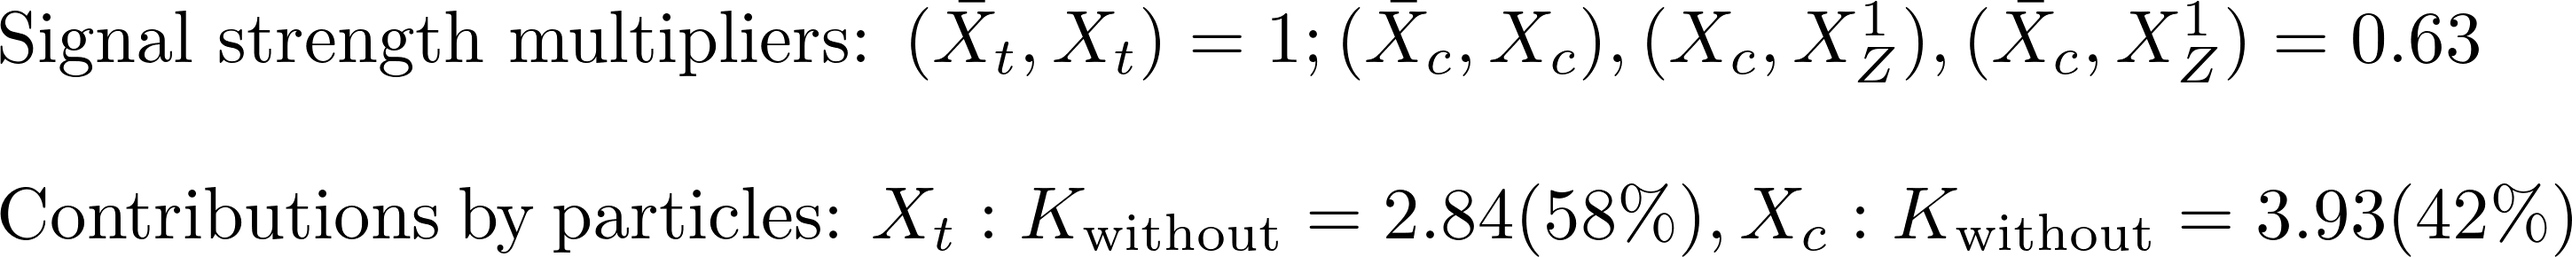
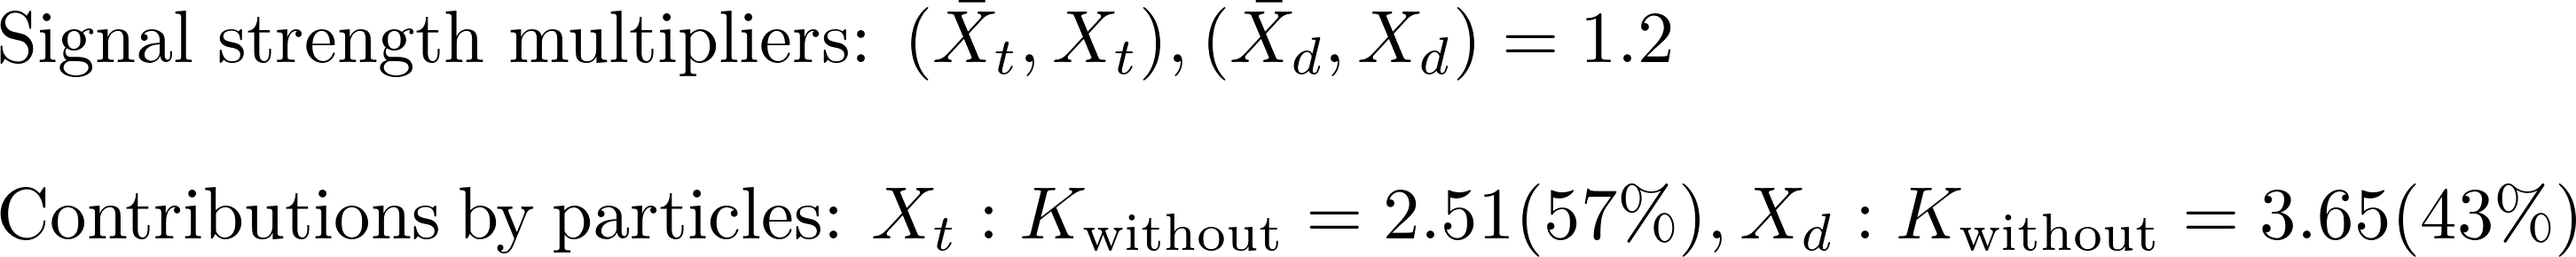
automated update by plotHiscore.py to /scratch-cbe/users/wolfgan.waltenberger/git/smodels.github.io/protomodels/2020_PioneerStudy/real3/

diff --git a/protomodels/2020_PioneerStudy/real3/index.html b/protomodels/2020_PioneerStudy/real3/index.html
@@ -1,30 +1,30 @@
 <html>
 <body>
 <center>
-<table><td><h1>Current best protomodel: K=6.87</h1><td><img height=60px src=https://smodels.github.io/pics/banner.png></table>
+<table><td><h1>Current best protomodel: K=7.02</h1><td><img height=60px src=https://smodels.github.io/pics/banner.png></table>
 </center>
-<b><a href=./hiscore.slha>ProtoModel</a> <a href=./pmodel.py>(dict)</a> produced with <a href=https://smodels.github.io/docs/Validation124>database v1.2.4</a>, combination strategy <a href=./matrix_aggressive.png>aggressive</a> in walker 13 step 926.</b> K plots for: <a href=./M1000022.png?13243411>X<sub>Z</sub><sup>1</sup></a>, <a href=./M1000006.png?13243411>X<sub>t</sub></a>, <a href=./M1000004.png?13243411>X<sub>c</sub></a>. HPD plots for: <a href=./llhd1000006.png?13243411>X<sub>t</sub></a>, <a href=./llhd1000004.png?13243411>X<sub>c</sub></a>. SSM plots for: <a href=./ssm_-1000006_1000006.png?13243411>(x&#772;<sub>t</sub>,X<sub>t</sub>)</a><br>
+<b><a href=./hiscore.slha>ProtoModel</a> <a href=./pmodel.py>(dict)</a> produced with <a href=https://smodels.github.io/docs/Validation124>database v1.2.4</a>, combination strategy <a href=./matrix_aggressive.png>aggressive</a> in walker 28 step 272.</b> K plots for: <a href=./M1000022.png?13647252>X<sub>Z</sub><sup>1</sup></a>, <a href=./M1000006.png?13647252>X<sub>t</sub></a>, <a href=./M1000001.png?13647252>X<sub>d</sub></a>. HPD plots for: <a href=./llhd1000006.png?13647252>X<sub>t</sub></a>, <a href=./llhd1000001.png?13647252>X<sub>d</sub></a>. SSM plots for: <a href=./ssm_-1000006_1000006.png?13647252>(x&#772;<sub>t</sub>,X<sub>t</sub>)</a><br>
 <table width=80%>
 <tr><td>
 <br><b>24 predictions available. Highest r values are:</b><br><ul>
 <li><a href=http://cms-results.web.cern.ch/cms-results/public-results/publications/SUS-19-006/index.html>CMS-SUS-19-006</a>:T2 r=1.30, r<sub>exp</sub>=1.12<br>
-<li><a href=http://cms-results.web.cern.ch/cms-results/public-results/publications/SUS-16-033/index.html>CMS-SUS-16-033</a>:T2 r=1.14, r<sub>exp</sub>=0.84<br>
-<li><a href=http://cms-results.web.cern.ch/cms-results/public-results/publications/SUS-19-006/index.html>CMS-SUS-19-006</a>:T2tt r=0.99, r<sub>exp</sub>=0.98<br>
-<li><a href=http://cms-results.web.cern.ch/cms-results/public-results/publications/SUS-16-036/index.html>CMS-SUS-16-036</a>:T2 r=0.82, r<sub>exp</sub>=0.76<br>
-<li><a href=http://cms-results.web.cern.ch/cms-results/public-results/publications/SUS-16-051/index.html>CMS-SUS-16-051</a>:T2tt r=0.72, r<sub>exp</sub>=0.47<br>
+<li><a href=http://cms-results.web.cern.ch/cms-results/public-results/publications/SUS-16-033/index.html>CMS-SUS-16-033</a>:T2 r=1.12, r<sub>exp</sub>=0.83<br>
+<li><a href=http://cms-results.web.cern.ch/cms-results/public-results/publications/SUS-19-006/index.html>CMS-SUS-19-006</a>:T2tt r=1.03, r<sub>exp</sub>=0.96<br>
+<li><a href=http://cms-results.web.cern.ch/cms-results/public-results/publications/SUS-16-036/index.html>CMS-SUS-16-036</a>:T2 r=0.82, r<sub>exp</sub>=0.77<br>
+<li><a href=http://cms-results.web.cern.ch/cms-results/public-results/publications/SUS-16-051/index.html>CMS-SUS-16-051</a>:T2tt r=0.77, r<sub>exp</sub>=0.51<br>
 </ul>
 <td><br><b>K values without analyses: (contribution)</b><br>
 <ul>
-<li> <a href=http://cms-results.web.cern.ch/cms-results/public-results/publications/SUS-16-050/index.html>CMS-SUS-16-050</a>: 3.68 (14%)
-<li> <a href=https://twiki.cern.ch/twiki/bin/view/CMSPublic/PhysicsResultsSUS13012>CMS-SUS-13-012</a>: 3.68 (14%)
-<li> <a href=https://atlas.web.cern.ch/Atlas/GROUPS/PHYSICS/PAPERS/SUSY-2013-02/>ATLAS-SUSY-2013-02</a>: 3.60 (14%)
-<li> <a href=https://atlas.web.cern.ch/Atlas/GROUPS/PHYSICS/PAPERS/SUSY-2016-16/>ATLAS-SUSY-2016-16</a>: 1.20 (25%)
-<li> <a href=https://atlas.web.cern.ch/Atlas/GROUPS/PHYSICS/PAPERS/SUSY-2016-07/>ATLAS-SUSY-2016-07</a>: -0.79 (33%)
-<td><img width=600px src=./texdoc.png?1606243411>
-<br><font size=-1>Last updated: Tue Nov 24 19:43:31 2020</font>
+<li> <a href=http://cms-results.web.cern.ch/cms-results/public-results/publications/SUS-16-050/index.html>CMS-SUS-16-050</a>: 3.94 (14%)
+<li> <a href=https://twiki.cern.ch/twiki/bin/view/CMSPublic/PhysicsResultsSUS13012>CMS-SUS-13-012</a>: 3.94 (14%)
+<li> <a href=https://atlas.web.cern.ch/Atlas/GROUPS/PHYSICS/PAPERS/SUSY-2013-02/>ATLAS-SUSY-2013-02</a>: 3.88 (14%)
+<li> <a href=https://atlas.web.cern.ch/Atlas/GROUPS/PHYSICS/PAPERS/SUSY-2016-16/>ATLAS-SUSY-2016-16</a>: 1.45 (25%)
+<li> <a href=https://atlas.web.cern.ch/Atlas/GROUPS/PHYSICS/PAPERS/SUSY-2016-07/>ATLAS-SUSY-2016-07</a>: -0.54 (34%)
+<td><img width=600px src=./texdoc.png?1606647252>
+<br><font size=-1>Last updated: Sun Nov 29 11:54:12 2020</font>
 </table><table style="width:80%">
-<td width=45%><img height=580px src=./ruler.png?1606243411><td width=55%><img height=380px src=./decays.png?1606243411>
-<font size=-3><iframe type="text/html" height="220px" width="100%s" frameborder="0" src="./rawnumbers.html?1606243411"></iframe></font>
+<td width=45%><img height=580px src=./ruler.png?1606647252><td width=55%><img height=380px src=./decays.png?1606647252>
+<font size=-3><iframe type="text/html" height="220px" width="100%s" frameborder="0" src="./rawnumbers.html?1606647252"></iframe></font>
 </table>
 </body>
 </html>

diff --git a/protomodels/2020_PioneerStudy/real3/rawnumbers.html b/protomodels/2020_PioneerStudy/real3/rawnumbers.html
@@ -1,9 +1,9 @@
 <table>
 <tr><th>Analysis Name</th><th>Type</th><th>Dataset</th><th>Topos</th><th>Observed</th><th>Expected</th><th>Approx &sigma;</th><th>Particles</th>
 </tr>
-<tr><td><a href=https://atlas.web.cern.ch/Atlas/GROUPS/PHYSICS/PAPERS/SUSY-2013-02/>ATLAS-SUSY-2013-02</a></td><td>em</td> <td>SR6jtp</td><td>T2</td><td>6</td><td>4.9 +/- 1.6</td><td style="text-align:right">0.4 &sigma;</td><td style="text-align:right">X<sub>c</sub></td></tr>
-<tr><td><a href=https://atlas.web.cern.ch/Atlas/GROUPS/PHYSICS/PAPERS/SUSY-2016-07/>ATLAS-SUSY-2016-07</a></td><td>em</td> <td>2j_Meff_1200</td><td>T2</td><td>611</td><td>526 +/- 31</td><td style="text-align:right">2.2 &sigma;</td><td style="text-align:right">X<sub>c</sub></td></tr>
+<tr><td><a href=https://atlas.web.cern.ch/Atlas/GROUPS/PHYSICS/PAPERS/SUSY-2013-02/>ATLAS-SUSY-2013-02</a></td><td>em</td> <td>SR6jtp</td><td>T2</td><td>6</td><td>4.9 +/- 1.6</td><td style="text-align:right">0.4 &sigma;</td><td style="text-align:right">X<sub>d</sub></td></tr>
+<tr><td><a href=https://atlas.web.cern.ch/Atlas/GROUPS/PHYSICS/PAPERS/SUSY-2016-07/>ATLAS-SUSY-2016-07</a></td><td>em</td> <td>2j_Meff_1200</td><td>T2</td><td>611</td><td>526 +/- 31</td><td style="text-align:right">2.2 &sigma;</td><td style="text-align:right">X<sub>d</sub></td></tr>
 <tr><td><a href=https://atlas.web.cern.ch/Atlas/GROUPS/PHYSICS/PAPERS/SUSY-2016-16/>ATLAS-SUSY-2016-16</a></td><td>em</td> <td>tN_high</td><td>T2tt</td><td>8</td><td>3.8 +/- 1</td><td style="text-align:right">1.9 &sigma;</td><td style="text-align:right">X<sub>t</sub></td></tr>
-<tr><td><a href=https://twiki.cern.ch/twiki/bin/view/CMSPublic/PhysicsResultsSUS13012>CMS-SUS-13-012</a></td><td>ul</td> <td>-</td><td>T2</td><td> 23.9 fb </td><td> 14.5 fb</td><td style="text-align:right">1.3 &sigma;</td><td style="text-align:right">X<sub>c</sub></td></tr>
-<tr><td><a href=http://cms-results.web.cern.ch/cms-results/public-results/publications/SUS-16-050/index.html>CMS-SUS-16-050</a></td><td>ul</td> <td>-</td><td>T2tt</td><td> 4.4 fb </td><td> 2.5 fb</td><td style="text-align:right">1.6 &sigma;</td><td style="text-align:right">X<sub>t</sub></td></tr>
+<tr><td><a href=https://twiki.cern.ch/twiki/bin/view/CMSPublic/PhysicsResultsSUS13012>CMS-SUS-13-012</a></td><td>ul</td> <td>-</td><td>T2</td><td> 22.4 fb </td><td> 13.7 fb</td><td style="text-align:right">1.3 &sigma;</td><td style="text-align:right">X<sub>d</sub></td></tr>
+<tr><td><a href=http://cms-results.web.cern.ch/cms-results/public-results/publications/SUS-16-050/index.html>CMS-SUS-16-050</a></td><td>ul</td> <td>-</td><td>T2tt</td><td> 5.0 fb </td><td> 2.8 fb</td><td style="text-align:right">1.5 &sigma;</td><td style="text-align:right">X<sub>t</sub></td></tr>
 </table>

diff --git a/protomodels/2020_PioneerStudy/real3/pmodel.py b/protomodels/2020_PioneerStudy/real3/pmodel.py
@@ -1,1 +1,1 @@
-{'masses': {1000022: 210.04, 1000006: 1190.57, 1000004: 796.2}, 'ssmultipliers': {(1000022, 1000022): 0.117, (1000006, 1000006): 1.039, (-1000006, 1000006): 1.039, (-1000006, -1000006): 1.039, (1000006, 1000022): 1.039, (-1000006, 1000022): 1.039, (1000004, 1000004): 0.627, (-1000004, 1000004): 0.627, (-1000004, -1000004): 0.627, (1000004, 1000022): 0.627, (-1000004, 1000022): 0.627, (1000004, 1000006): 0.741, (-1000004, 1000006): 0.741, (-1000006, 1000004): 0.741, (-1000006, -1000004): 0.0}, 'decays': {1000022: {}, 1000006: {(1000022, 6): 1.0}, 1000004: {(1000022, 4): 1.0}}, 'timestamp': 'Tue Nov 24 19:43:13 2020', 'Z': 3.228, 'K': 6.873, 'walkerid': 13, 'step': 926, 'codever': '1.0', 'dbver': '1.2.4'}
+{'masses': {1000022: 330.544, 1000006: 1159.241, 1000001: 881.534}, 'ssmultipliers': {(1000022, 1000022): 1.275, (1000006, 1000006): 1.021, (-1000006, 1000006): 1.174, (-1000006, -1000006): 1.174, (1000006, 1000022): 1.217, (-1000006, 1000022): 1.217, (1000001, 1000001): 0.546, (-1000001, 1000001): 1.153, (-1000001, -1000001): 1.163, (1000001, 1000022): 0.0, (-1000001, 1000022): 0.0, (1000001, 1000006): 1.11, (-1000001, 1000006): 1.11, (-1000006, 1000001): 1.11, (-1000006, -1000001): 1.11}, 'decays': {1000022: {}, 1000006: {(1000022, 6): 1.0}, 1000001: {(1000022, 1): 1.0}}, 'timestamp': 'Sun Nov 29 11:54:04 2020', 'Z': 3.208, 'K': 7.017, 'walkerid': 28, 'step': 272, 'codever': '1.0', 'dbver': '1.2.4'}
